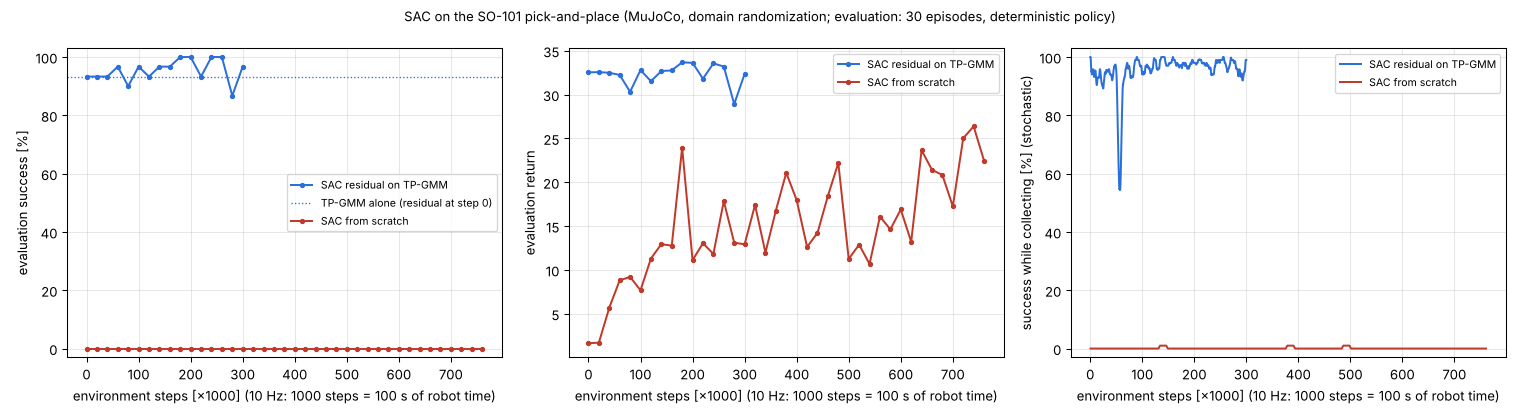
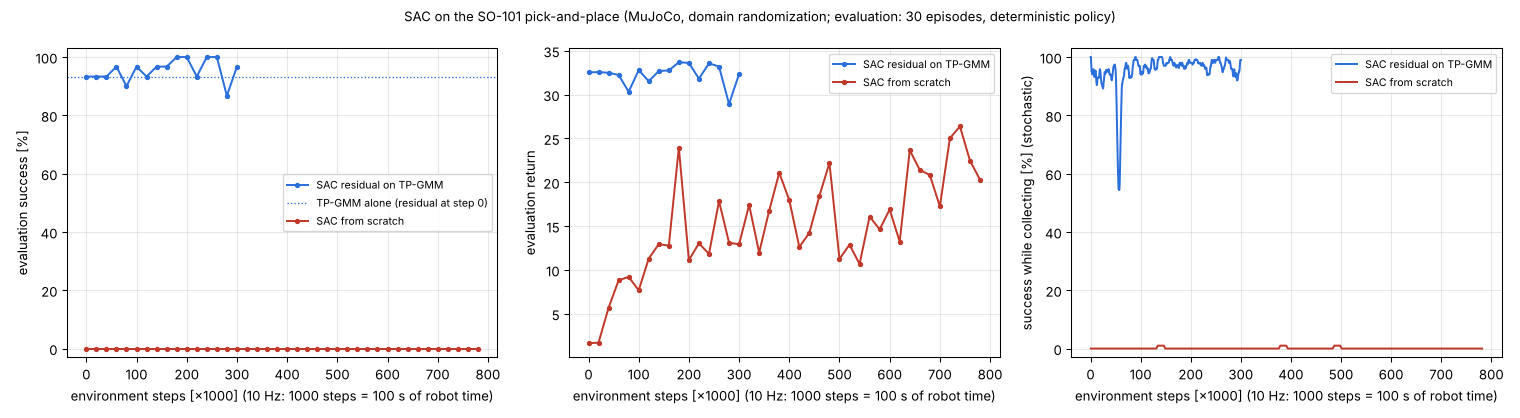
SAC report: from-scratch run documented at 780 k steps (cut by a machine restart)
Claude-Session: https://claude.ai/code/session_01KcAuLZM4HpM37KjBt7oyNQ

diff --git a/scripts/eval_sac.py b/scripts/eval_sac.py
@@ -144,6 +144,8 @@ def write_report(df: pd.DataFrame, cfg: dict) -> None:
             L.append(f"- **{c}:** SAC residual succeeds where the TP-GMM fails in {win} episodes, and the opposite in "
                      f"{loss} (exact binomial test on the discordant pairs, p = {pv:.2g}).")
     sr = df.groupby(["condition", "policy"]).success.mean() * 100
+    ev = root / "scratch_s0" / "eval.csv"
+    scratch_steps = int(pd.read_csv(ev).timesteps.max()) if ev.exists() else 0
     get = lambda c, p: float(sr.get((c, p), float("nan")))  # noqa: E731
     L += ["", "## Reading\n",
           f"- **SAC residual ≈ TP-GMM.** {get('nominal', 'sac_residual'):.1f} vs {get('nominal', 'tpgmm'):.1f} % "
@@ -154,9 +156,11 @@ def write_report(df: pd.DataFrame, cfg: dict) -> None:
           "cannot know where the cube really is. To correct "
           "them it needs information the TP-GMM does not use: the cube re-detected during the approach (fixed "
           "camera when not occluded, or a wrist camera), or contact/gripper feedback.",
-          f"- **SAC from scratch: {get('nominal', 'sac_scratch'):.0f} %** with its best checkpoint so far (it reaches "
-          "the cube and lifts it in ~10 % of the episodes, but does not bring it to the box yet); see the learning "
-          "curve for the run length.",
+          f"- **SAC from scratch: {get('nominal', 'sac_scratch'):.0f} %** after {scratch_steps / 1e3:.0f} k steps "
+          f"(≈ {scratch_steps / 36e3:.0f} h of robot time at 10 Hz): it reaches the cube and lifts it in ~10 % of the "
+          "episodes but does not bring it to the box yet. The run was cut by a restart of the machine; it can be "
+          "resumed from its last checkpoint (`train_sac.py --resume .../checkpoints/sac_<N>_steps.zip`, without "
+          "its replay buffer).",
           "- **TP-GMM + residual is the practical path to the real robot**: it starts from a working policy, never "
           "explores far from it, and can keep learning on real episodes (`scripts/run_sac_real.py --finetune`).", ""]
     L += ["## Residual: what went wrong first\n",

diff --git a/README.md b/README.md
@@ -29,7 +29,7 @@ cinta azul miden 10 × 40 cm por dentro.*
 | 5 | Evaluación leave-one-out (segmentado vs monolítico vs planificador IK vs LPV-DS), inferencia imagen → trayectoria articular, stub del robot → [`docs/evaluation_report.md`](docs/evaluation_report.md) | ✅ |
 | 6 | Alternativa estable: LPV-DS (campo de velocidades con estabilidad garantizada) y prueba de perturbaciones → [`docs/lpvds_report.md`](docs/lpvds_report.md), [`docs/perturbation_report.md`](docs/perturbation_report.md), [`docs/ds_field.md`](docs/ds_field.md) | ✅ experimental |
 | 7 | Simulación en MuJoCo con 3 cubos aleatorios y las políticas aprendidas → [`docs/mujoco_sim.md`](docs/mujoco_sim.md) | ✅ |
-| 8 | SAC desde cero y residual sobre el TP-GMM (simulación y robot real) → [`docs/sac_report.md`](docs/sac_report.md) | ✅ residual · ⏳ desde cero |
+| 8 | SAC desde cero y residual sobre el TP-GMM (simulación y robot real) → [`docs/sac_report.md`](docs/sac_report.md) | ✅ residual · desde cero: 0 % a 780 k pasos |
 
 ## Instalación
 
@@ -210,7 +210,8 @@ Detalle en [`docs/sac_report.md`](docs/sac_report.md).
     unidades al sostener dejan la pinza más ancha que el cubo. Ahora el gripper sigue al TP-GMM.
   - El residual no puede corregir errores de percepción porque ve la misma foto que el TP-GMM. Para mejorar
     necesita información nueva: el cubo re-detectado durante la aproximación o una cámara en la muñeca.
-- **SAC desde cero** aprende a alcanzar el cubo y a veces a levantarlo, pero todavía no lo deposita.
+- **SAC desde cero** (780 000 pasos, unas 22 h de tiempo de robot) aprende a alcanzar el cubo y a veces a
+  levantarlo, pero todavía no lo deposita.
   Pick-and-place desde cero necesita del orden de 10⁶ pasos (unas 28 h de tiempo de robot). Por eso, en el
   robot real, lo viable es el residual o ajustar una política entrenada en simulación.
 - **Robot real:** `scripts/run_sac_real.py` despliega la política (`--episodes N`) o la sigue entrenando

diff --git a/docs/sac_report.md b/docs/sac_report.md
@@ -38,7 +38,7 @@ Multi-cube results with the other policies: `mujoco_sim.md`.
 ## Reading
 
 - **SAC residual ≈ TP-GMM.** 96.5 vs 95.5 % (nominal) and 81.5 vs 78.5 % (8 mm perception noise): slightly better, not significantly. It keeps the TP-GMM's success, which the first attempts did not, but adds little. The TP-GMM's failures grow with the perception error (4.5 → 21.5 %), and the residual observes the same single camera snapshot, so it cannot know where the cube really is. To correct them it needs information the TP-GMM does not use: the cube re-detected during the approach (fixed camera when not occluded, or a wrist camera), or contact/gripper feedback.
-- **SAC from scratch: 0 %** with its best checkpoint so far (it reaches the cube and lifts it in ~10 % of the episodes, but does not bring it to the box yet); see the learning curve for the run length.
+- **SAC from scratch: 0 %** after 780 k steps (≈ 22 h of robot time at 10 Hz): it reaches the cube and lifts it in ~10 % of the episodes but does not bring it to the box yet. The run was cut by a restart of the machine; it can be resumed from its last checkpoint (`train_sac.py --resume .../checkpoints/sac_<N>_steps.zip`, without its replay buffer).
 - **TP-GMM + residual is the practical path to the real robot**: it starts from a working policy, never explores far from it, and can keep learning on real episodes (`scripts/run_sac_real.py --finetune`).
 
 ## Residual: what went wrong first
